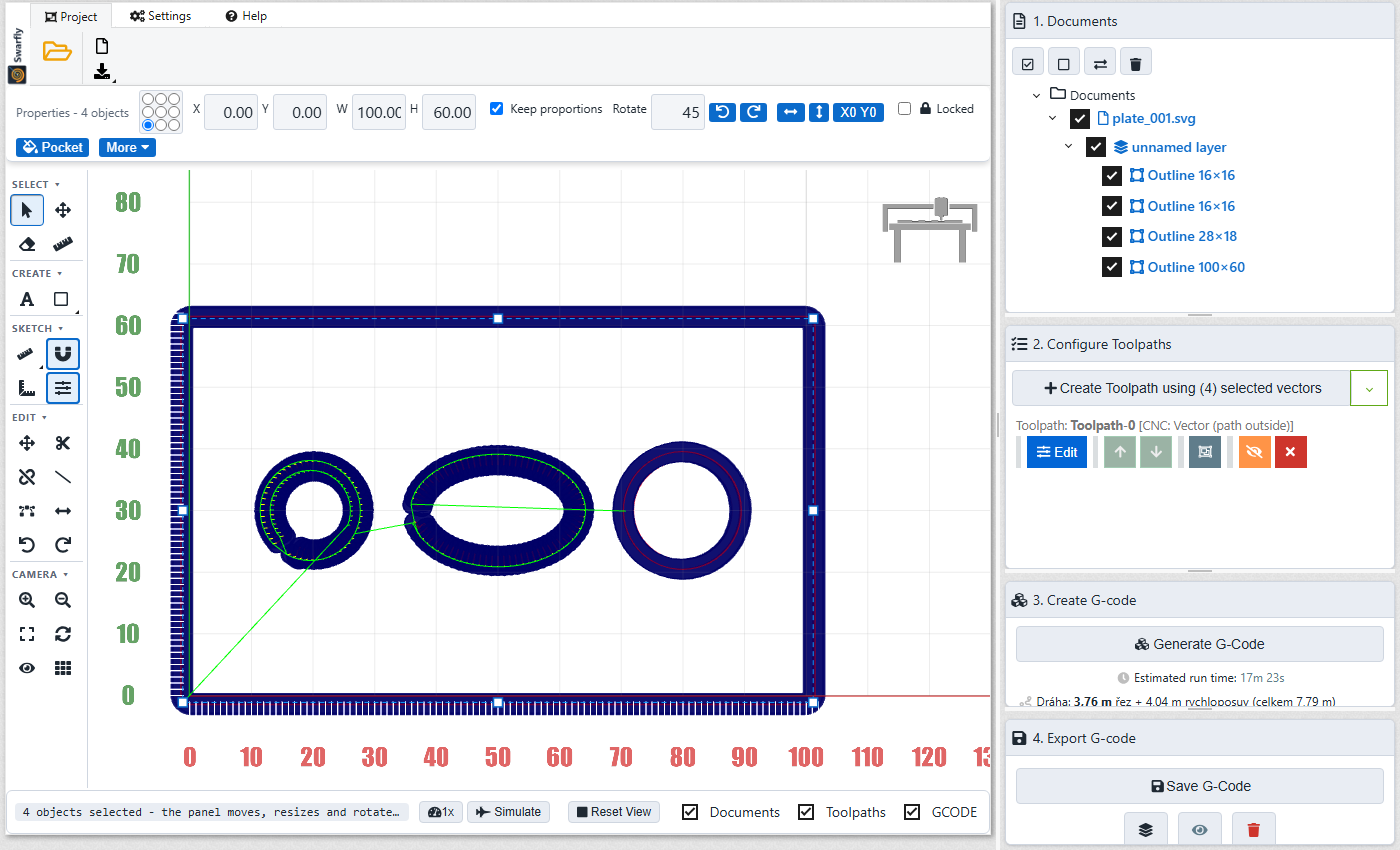
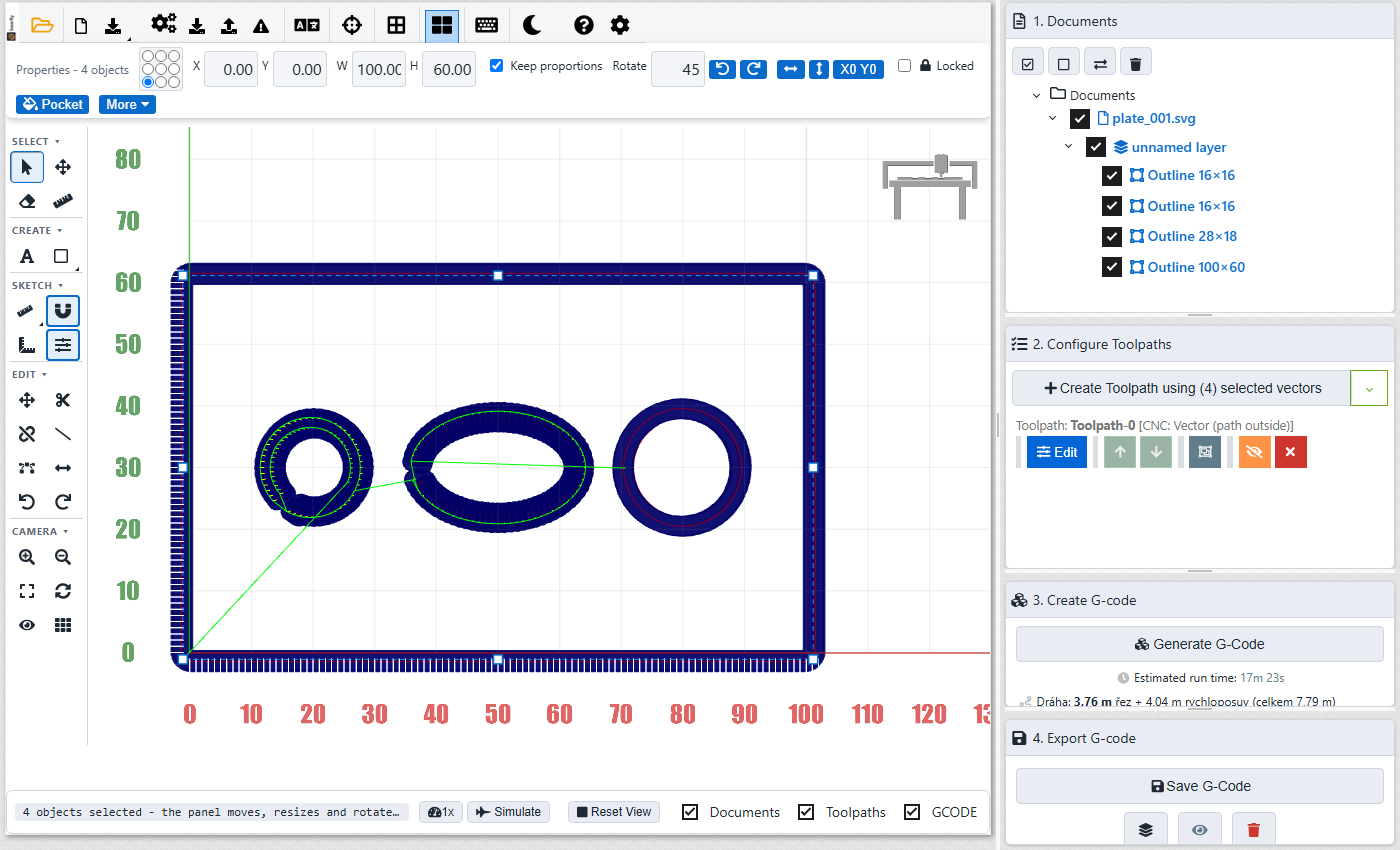
Swarfly 1.18.0: top ribbon becomes one plain toolbar (no tabs) with the tool panel

Changed region(s): [[0.0, 0.0, 0.7064, 0.9176], [0.1843, 0.4588, 0.5836, 0.7035], [0.1229, 0.8871, 0.1843, 0.9176]]

diff --git a/css/swarfly-ui.css b/css/swarfly-ui.css
@@ -306,3 +306,23 @@ body.sw-tools #toolPanel { display: block; }
 #toolPanel .ribbon-icon-button:hover, #toolPanel .tbtn:hover { background: var(--sw-accent-soft); border-color: var(--sw-accent); }
 #toolPanel .ribbon-icon-button.active, #toolPanel .ribbon-icon-button.ed-on, #toolPanel .tbtnactive { background: var(--sw-accent-soft) !important; border-color: var(--sw-accent); }
 #toolPanel .ribbon-dropdown { left: 100% !important; top: 0 !important; z-index: 6000; }
+
+/* Swarfly 1.18.1: with the tool panel the ribbon becomes one plain toolbar: no tabs, file + settings + help side by side */
+body.sw-tools nav[data-role="ribbonmenu"] .tabs-holder { display: none !important; }
+body.sw-tools nav[data-role="ribbonmenu"] .content-holder { display: flex !important; flex-wrap: wrap; align-items: center; height: auto !important; }
+body.sw-tools nav[data-role="ribbonmenu"] .content-holder .section { display: flex !important; flex-wrap: wrap; align-items: center; position: static !important; width: auto !important; height: 52px !important; opacity: 1 !important; visibility: visible !important; }
+body.sw-tools nav[data-role="ribbonmenu"] .section > .group { height: 48px !important; }
+body.sw-tools nav[data-role="ribbonmenu"] .content-holder { height: 40px !important; min-height: 0 !important; }
+body.sw-tools nav[data-role="ribbonmenu"] .content-holder .section { height: 40px !important; }
+body.sw-tools nav[data-role="ribbonmenu"] .section > .group { height: 36px !important; padding: 0 2px !important; margin: 0 !important; }
+body.sw-tools nav[data-role="ribbonmenu"] .ribbon-button { width: 34px !important; height: 34px !important; margin: 1px !important; }
+body.sw-tools nav[data-role="ribbonmenu"] .ribbon-button .icon { height: 30px !important; font-size: 17px; line-height: 30px !important; width: auto !important; }
+body.sw-tools nav[data-role="ribbonmenu"] .ribbon-icon-button { height: 17px !important; width: 30px !important; }
+body.sw-tools nav[data-role="ribbonmenu"] .ribbon-icon-button .icon { height: 15px !important; line-height: 15px !important; font-size: 12px; }
+body.sw-tools nav[data-role="ribbonmenu"] .ribbon-group { height: 36px; display: flex; flex-direction: column; justify-content: center; }
+body.sw-tools nav[data-role="ribbonmenu"] .ribbon-button { min-height: 0 !important; max-height: 34px; overflow: hidden; display: inline-flex; align-items: center; justify-content: center; }
+body.sw-tools nav[data-role="ribbonmenu"] .ribbon-button svg { max-height: 20px; }
+body.sw-tools nav[data-role="ribbonmenu"] .ribbon-group { flex-direction: row; align-items: center; }
+body.sw-tools nav[data-role="ribbonmenu"] .ribbon-group br { display: none; }
+body.sw-tools nav[data-role="ribbonmenu"] .ribbon-icon-button { height: 30px !important; width: 32px !important; }
+body.sw-tools nav[data-role="ribbonmenu"] .ribbon-icon-button .icon { height: 28px !important; line-height: 28px !important; font-size: 16px; }

diff --git a/test/e2e/language.spec.js b/test/e2e/language.spec.js
@@ -21,19 +21,19 @@ test('default UI is English, one theme button, language button switches to Czech
 	expect(await page.evaluate(() => window.swarflyLang)).toBe('en');
 	expect(await page.locator('#btnTheme').count()).toBe(1);
 	expect(await page.locator('#languageButtonCaption').textContent()).toBe('Česky');
-	expect(await page.locator('#section-workspace').textContent()).toContain('Redo');
+	expect(await page.locator('#toolPanel').textContent()).toContain('Redo');
 
 	await page.evaluate(() => swarflySwitchLanguage());
 	await reloaded(page, 2500, 'cs');
 	expect(await page.evaluate(() => window.swarflyLang)).toBe('cs');
 	expect(await page.locator('#languageButtonCaption').textContent()).toBe('English');
-	expect(await page.locator('#section-workspace').textContent()).toContain('Znovu');                 // Redo
+	expect(await page.locator('#toolPanel').textContent()).toContain('Znovu');                 // Redo
 	expect(await page.locator('#languageGroup').textContent()).toContain('Jazyk');     // Settings tab is not visible, read textContent
 
 	await page.evaluate(() => swarflySwitchLanguage());
 	await reloaded(page, 2000, 'en');
 	expect(await page.evaluate(() => window.swarflyLang)).toBe('en');
-	expect(await page.locator('#section-workspace').textContent()).toContain('Redo');
+	expect(await page.locator('#toolPanel').textContent()).toContain('Redo');
 });
 
 test('a default of "cs" from default-lang.js applies, but the saved choice wins', async ({ page }) => {

diff --git a/test/e2e/tool-panel.spec.js b/test/e2e/tool-panel.spec.js
@@ -65,7 +65,6 @@ test('the Shapes menu opens from the panel and makes a shape (no drop error)', a
 });
 
 test('Layout button moves everything back into the ribbon and forth again', async () => {
-	await page.click('text=Settings >> nth=0');
 	await page.evaluate(() => swarflyToggleLayout());
 	expect(await page.evaluate(() => document.body.classList.contains('sw-tools'))).toBe(false);
 	expect(await page.evaluate(() => !!document.getElementById('editorTrimButton').closest('nav[data-role="ribbonmenu"]'))).toBe(true);

diff --git a/CHANGELOG.md b/CHANGELOG.md
@@ -5,7 +5,7 @@ Every release must have an entry here that matches the version in `package.json`
 
 ## [1.18.0] - 2026-11-07
 ### Changed
-- **New layout: a tool panel on the left of the drawing** instead of the tools in the ribbon. Groups *Select*, *Create*, *Sketch*, *Edit* and *Camera* (same groups as in the keyboard shortcuts); each button shows its name and key when pointed at, a click on a group name folds the group. The ribbon at the top keeps file, project, settings and help; the properties bar stays under it. The buttons are the same ones as before (moved, not copied), so everything works as it did.
+- **New layout: a tool panel on the left of the drawing** instead of the tools in the ribbon. Groups *Select*, *Create*, *Sketch*, *Edit* and *Camera* (same groups as in the keyboard shortcuts); each button shows its name and key when pointed at, a click on a group name folds the group. The ribbon at the top becomes one plain toolbar without tabs (open, new, save, settings, backup, language, grid, tool panel, keys, theme, help, version); the properties bar stays under it. The buttons are the same ones as before (moved, not copied), so everything works as it did.
 - *Settings - Tool Panel* switches back to the old ribbon layout and forth again, without reloading (saved in the browser storage).
 ### Fixed
 - Opening a menu inside the drawing area no longer raises "Cannot read properties of undefined (reading 'files')" (Metro dropdowns fire a `drop` event that the file drop handler took for a dropped file).

diff --git a/help/cs/start.md b/help/cs/start.md
@@ -16,7 +16,7 @@ Program se uloží jako soubor `.nc` a na stroj se přenese SD kartou.
 ## Kde co je
 
 - **Panel nástrojů (vlevo od výkresu)**: kreslicí nástroje ve skupinách - *Výběr* (výběr, posun, mazání, transformace), *Tvoření* (text, tvary), *Skica* (měření, přichytávání, rozměry, panel vlastností), *Upravit* (posun A-B, ořez, rozdělení, tečna, oblouk, do rohu, zpět, znovu) a *Kamera* (zoom, okno, otáčení, ukázat úlohu, ukázat pracovní plochu). Když najedeš na tlačítko, uvidíš název a klávesu; kliknutím na název skupiny ji sbalíš. *Nastavení - Panel nástrojů* vrátí všechno do pásu karet (staré rozložení) a zase zpět.
-- **Záložka Projekt**: otevřít, nový projekt, uložit/otevřít projekt.
+- **Lišta nahoře** (ve starém rozložení záložky Projekt, Nastavení a Nápověda): otevřít, nový projekt, uložit/otevřít projekt, nastavení, jazyk, motiv, klávesové zkratky, nápověda.
 - **Záložka Nastavení**: nastavení, záloha, jazyk, vzhled.
 - **Záložka Nápověda**: tlačítko *Nápověda* a tlačítko *Verze* (co je nového).
 - **Panely vpravo**: 1 výkres, 2 dráhy nástroje, 3 vytvoření G-kódu (s časem a statistikami), 4 export G-kódu.

diff --git a/help/en/start.md b/help/en/start.md
@@ -16,7 +16,7 @@ The program is saved as a `.nc` file and carried to the machine on an SD card.
 ## Where things are
 
 - **Tool panel (left of the drawing)**: the drawing tools in groups - *Select* (select, move, erase, transform), *Create* (text, shapes), *Sketch* (measure, snapping, dimensions, properties bar), *Edit* (move A-B, trim, split, tangent, arc, to corner, undo, redo) and *Camera* (zoom, window, rotate, show job, show machine area). Point at a button to see its name and key; click a group name to fold it. *Settings - Tool Panel* moves all of them back into the ribbon (the old look) and forth again.
-- **Project tab**: open, new project, save/open project.
+- **Toolbar at the top** (in the old ribbon layout: the Project, Settings and Help tabs): open, new project, save/open project, settings, language, theme, keyboard shortcuts, help.
 - **Settings tab**: settings, backup, language, theme.
 - **Help tab**: the *Help* button and the *Version* button (what is new).
 - **Panels on the right**: 1 drawing, 2 toolpaths, 3 create G-code (with time and statistics), 4 export G-code.
